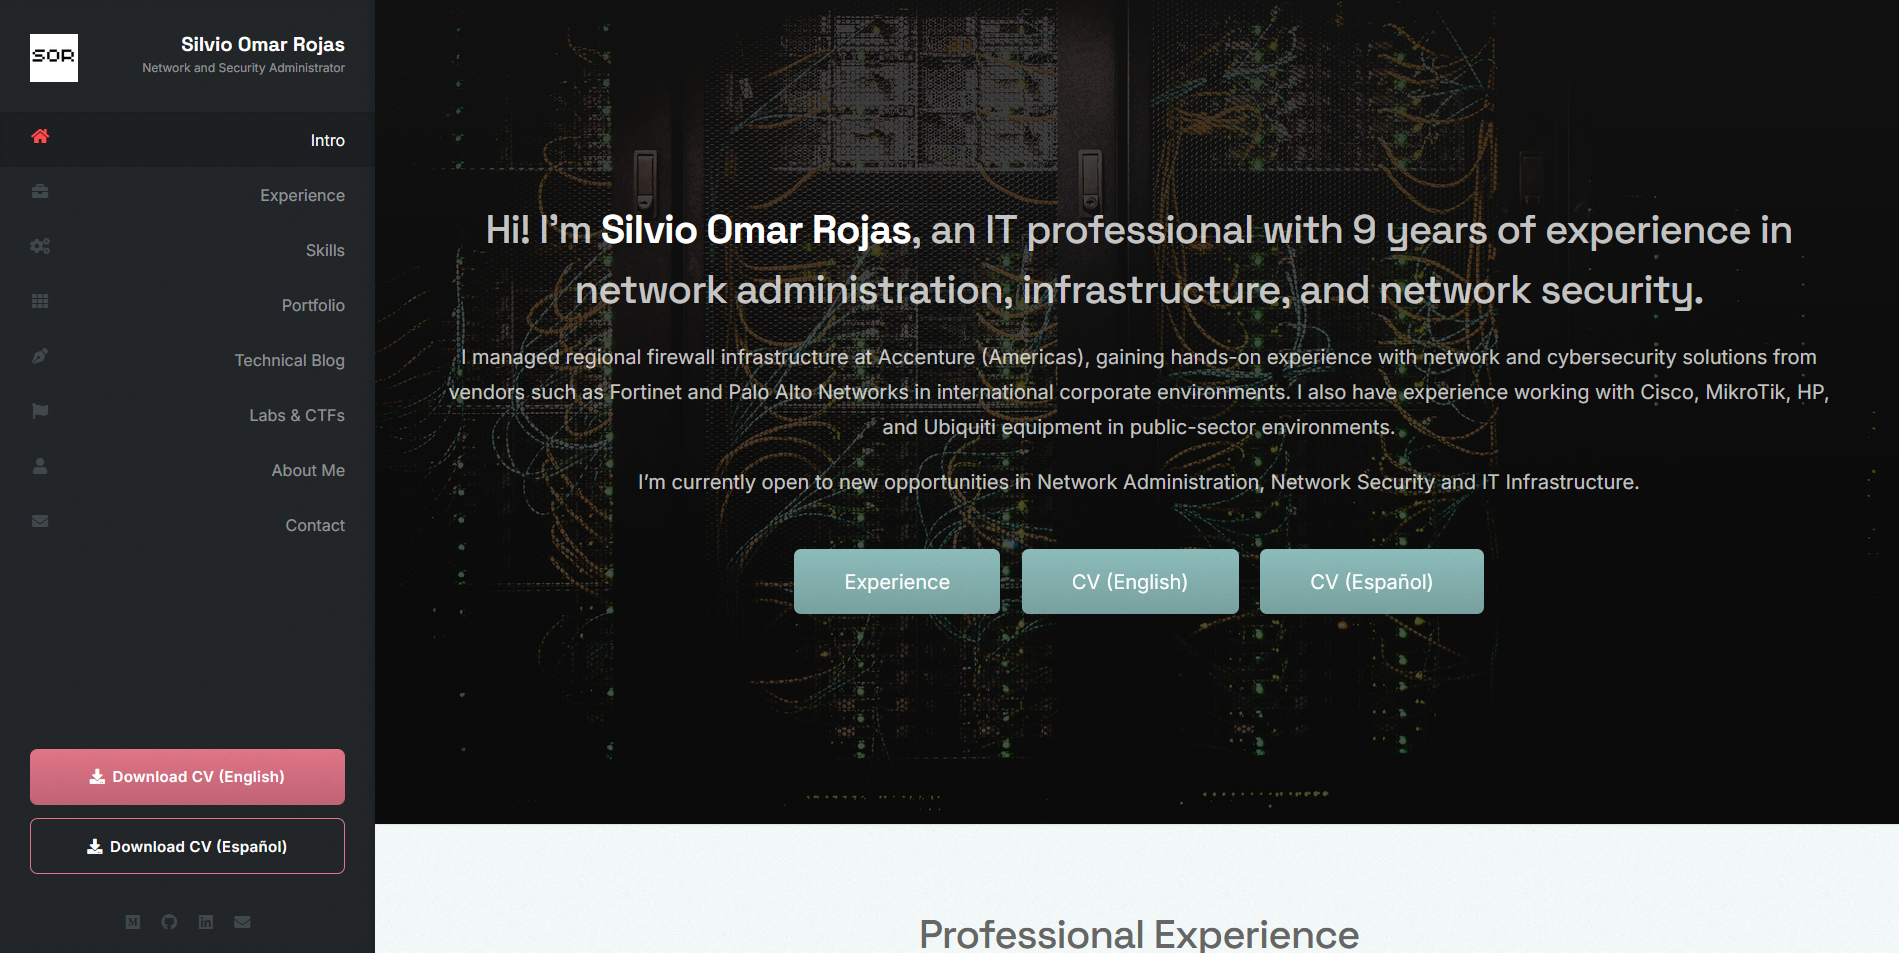
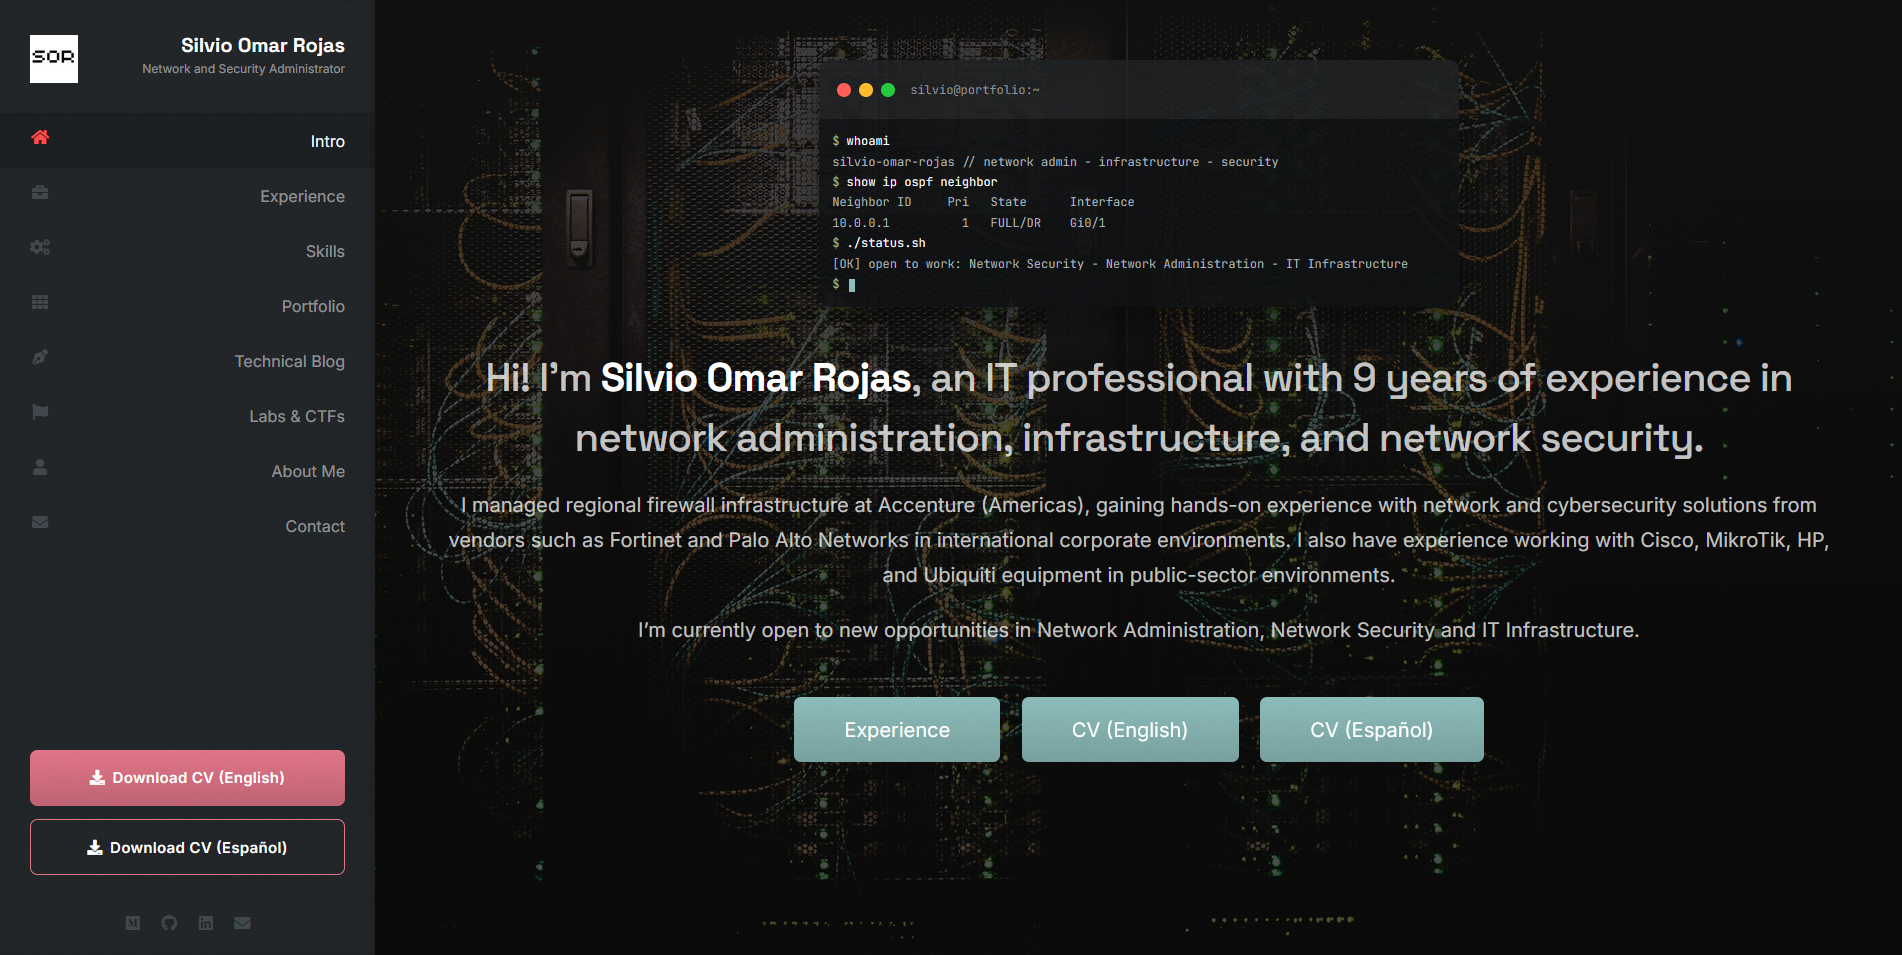
Updated project cards in the portfolio section

diff --git a/index.html b/index.html
@@ -77,7 +77,6 @@
 						<div class="container">
 
 							<header>
-								
 								<div class="terminal" aria-hidden="true">
 									<div class="term-bar">
 										<span></span><span></span><span></span>
@@ -94,7 +93,6 @@
 										<span class="t-line" data-type="cmd"></span>
 									</div>
 								</div>
-
 								<h2 class="alt">Hi! I'm <strong>Silvio Omar Rojas</strong>, an IT professional with 9 years of experience in network administration, infrastructure, and network security.</h2>
 								<p>I managed regional firewall infrastructure at Accenture (Americas), gaining hands-on experience with network and cybersecurity solutions from vendors such as Fortinet and Palo Alto Networks in international corporate environments. I also have experience working with Cisco, MikroTik, HP, and Ubiquiti equipment in public-sector environments.</p>
 								<p>I’m currently open to new opportunities in Network Administration, Network Security and IT Infrastructure.</p>
@@ -507,16 +505,46 @@
 
 									<!-- Full description: used as the content of the project modal -->
 									<div class="description-box" hidden>
-										<p><strong>Overview:</strong> I had been planning to develop a portfolio website to display my technical skills for quite some time, and I ultimately decided to built it using HTML, CSS and JavaScript, based on the Prologue template by HTML5 UP and hosted on GitHub Pages.</p>
-										<p><strong>Technologies:</strong> HTML, CSS, JS, Git Bash, Windows Terminal.</p>
-										<p><strong>Tools & Resources:</strong> GitHub, HTML5 UP, Unsplash, Font Awesome.</p>
-										<p><strong>Code:</strong> <a href="https://github.com/silviorojas/silviorojas.github.io" target="_blank" rel="noopener noreferrer">View GitHub Repository</a></p>
-										<p>
-										<strong>Article:</strong>
-										<a href="https://rojassilvioomar.medium.com/how-i-built-my-tech-portfolio-across-it-networking-and-cybersecurity-a674afe8812b" target="_blank" rel="noopener noreferrer">
-										<i class="fab fa-medium" aria-hidden="true"></i> Read the Case Study on Medium ↗
-										</a>
-										</p>
+										<p class="pm-lead">I had been planning to develop a portfolio website to display my technical skills for quite some time, and I ultimately decided to built it using HTML, CSS and JavaScript, based on the Prologue template by HTML5 UP and hosted on GitHub Pages.
+										A technical portfolio demonstrates practical skills, real-world problem-solving abilities, and hands-on experience, providing tangible evidence of my expertise in network administration, infrastructure, and cybersecurity beyond what a CV alone can communicate.</p>
+
+										<dl class="pm-meta">
+											<dt>Type</dt><dd>Website Deployment &amp; Configuration</dd>
+											<dt>Role</dt><dd>Web Developer &amp; Implementer</dd>
+											<dt>Duration</dt><dd>1 week</dd>
+											<dt>Tools</dt><dd>GitHub, HTML5 UP, Unsplash, Font Awesome, CloudFlare, Formspree.</dd>
+											<dt>Technologies</dt><dd>HTML, CSS, JS, Git Bash, Windows Terminal.</dd>
+										</dl>
+
+										<!-- Each <img> opens in a lightbox with arrows. alt = caption -->
+										<div class="pm-gallery">
+											<img src="images/projects/project01.webp"  alt="Screenshot of my website" loading="lazy" />
+											<img src="images/projects/project01-vscode.webp"  alt="VS Code" loading="lazy" />
+										</div>
+
+										<h4>Goals</h4>
+										<ul>
+											<li>Demonstrate practical knowledge and technical capabilities in network administration, infrastructure, network security, and cybersecurity.</li>
+											<li>Document projects &amp; hands-on experience.</li>
+											<li>Build a professional identity, increase visibility to potential employers and recruiters, and provide tangible evidence of technical experience beyond a traditional CV.</li>
+										</ul>
+
+										<h4>Challenges &amp; lessons learned</h4>
+										<ul>
+											<li>I didn't encounter many technical difficulties while implementing this project. 
+												The main challenge was deciding what to include and how to approach it, given the enormous number of possibilities for customization and improvement. 
+												There are countless features, design choices, and ideas that could be implemented, making it difficult to define a final version. 
+												I realized that a personal website is an ongoing project that can continuously evolve, and that it may never truly be 100% complete.</li>
+											<li>What I would improve next: Custom Domain: Register and configure a custom domain using a professional extension such as .dev or .tech.</li>
+											<li>Another thing I could add: A dedicated section to showcase professional certifications, completed courses, and relevant technical training.</li>
+										</ul>
+
+										<div class="pm-links">
+											<a href="https://github.com/silviorojas/silviorojas.github.io" target="_blank" rel="noopener noreferrer"><i class="fab fa-github" aria-hidden="true"></i> GitHub repository</a>
+											<a href="https://rojassilvioomar.medium.com/how-i-built-my-tech-portfolio-across-it-networking-and-cybersecurity-a674afe8812b" target="_blank" rel="noopener noreferrer"><i class="fab fa-medium" aria-hidden="true"></i> Case study on Medium</a>
+											<!-- More links: -->
+											<!-- <a href="files/something.pdf" target="_blank" rel="noopener noreferrer"><i class="fas fa-file-pdf" aria-hidden="true"></i> Network diagram (PDF)</a> -->										
+										</div>
 
 									</div>
 									</article>
@@ -537,18 +565,68 @@
 
 									<!-- Full description: used as the content of the project modal -->
 									<div class="description-box" hidden>
-										<p><strong>Overview:</strong> A secure, redundant enterprise network for RUNA S.R.L. (a fictional company), built and simulated in Cisco Packet Tracer. It uses a hierarchical design with a Layer 3 core, access switching, a perimeter firewall with a DMZ, centralized wireless, and IP telephony.</p>
-										<p><strong>Network Technologies Implemented:</strong> VLANs, 802.1Q, STP/PVST+, EtherChannel, HSRP, OSPF, NAT/PAT, ACLs, DHCP Relay, DHCP Snooping, AAA/TACACS+, SSH, FlexConnect, etc.</p>
-										<p><strong>Tools & Resources:</strong> Cisco Packet Tracer, Netbox.</p>
-										<p><strong>Configuration Interfaces:</strong> Cisco IOS CLI, Cisco ASA CLI, Cisco WLC GUI.</p>
-										<p><strong>Code: </strong> <a href="https://github.com/silviorojas/enterprise-network-cpk" target="_blank" rel="noopener noreferrer">View GitHub Repository</a></p>
-										<p><strong>Packet Tracer file: </strong> <a href="https://github.com/silviorojas/enterprise-network-cpk/releases/latest/download/runa-silvio-omar-rojas.pkt" target="_blank" rel="noopener noreferrer">Download</a></p>
-										<p>
-										<strong>Article:</strong>
-										<a href="https://rojassilvioomar.medium.com/enterprise-network-architecture-e29a17f700c3" target="_blank" rel="noopener noreferrer">
-										<i class="fab fa-medium" aria-hidden="true"></i> Read the Case Study on Medium ↗
-										</a>
-										</p>
+
+										<p class="pm-lead">I decided to simulate with Cisco Packet Tracer an enterprise network infrastructure for RUNA S.R.L. (a fictional company), to replicate the architecture and complexity of a real-world corporate environment. 
+											The project involves designing a multi-floor network with multiple VLANs and subnets, dedicated network segments for different departments and user groups, 
+											and firewall security zones to separate internal users, guest Wi-Fi, DMZ services, and external Internet connectivity.</p>
+
+										<dl class="pm-meta">
+											<dt>Type</dt><dd>Network design &amp; simulation</dd>
+											<dt>Role</dt><dd>Designer and implementer</dd>
+											<dt>Duration</dt><dd>1-2 weeks</dd>
+											<dt>Tools</dt><dd>Cisco Packet Tracer, NetBox</dd>
+											<dt>Network technologies</dt><dd>VLANs, 802.1Q, STP/PVST+, EtherChannel, HSRP, OSPF, NAT/PAT, ACLs, DHCP Relay, DHCP Snooping, AAA/TACACS+, SSH, FlexConnect</dd>
+											<dt>Configuration interfaces</dt><dd>Cisco IOS CLI, Cisco ASA CLI, Cisco WLC GUI</dd>
+										</dl>
+
+										<!-- Each <img> opens in a lightbox with arrows. alt = caption -->
+										<div class="pm-gallery">
+											<img src="images/projects/project02-L2-Diagram.png"  alt="Layer 2 topology" loading="lazy" />
+											<img src="images/projects/project02-L3-Diagram.png"  alt="Layer 3 core and HSRP configuration" loading="lazy" />
+											<img src="images/projects/project02-PacketTracerwithoutCorporateAccessInfrastructure.png"  alt="Cisco Packet Tracer" loading="lazy" />
+											<img src="images/projects/project02-PacketTracer-CorporateAccessInfrastructure.png"  alt="Cisco Packet Tracer (Corporate Access)" loading="lazy" />
+											<img src="images/projects/project02-PacketTracer-Physical.png"     alt="Cisco Packet Tracer (MDF-Physical)" loading="lazy" />
+											<img src="images/projects/project02-Web-01-runa-com.png"    alt="Web Server 01 (runa.com)" loading="lazy" />
+										</div>
+
+										<h4>Goals</h4>
+										<ul>
+											<li>No single point of failure at the core and distribution layers.</li>
+											<li>Segmentation by department with controlled inter-VLAN access.</li>
+											<li>Secure remote administration and centralized authentication.</li>
+										</ul>
+
+										<h4>Architecture</h4>
+										<ul>
+											<li><strong>Collapsed Core Architecture:</strong> A two-tier hierarchical network design combining the Core and Distribution layers into a single layer of redundant Layer 3 switches, using OSPF for dynamic routing and HSRP for gateway redundancy.</li>
+											<li><strong>Access:</strong> VLANs, 802.1Q trunks, EtherChannel and PVST+.</li>
+											<li><strong>Perimeter:</strong> Cisco ASA with NAT/PAT and a DMZ for public servers.</li>
+											<li><strong>Wireless:</strong> Centralized WLC with FlexConnect APs.</li>
+											<li><strong>Voice:</strong> IP telephony on a dedicated voice VLAN.</li>
+										</ul>
+
+										<h4>Security</h4>
+										<ul>
+											<li>DHCP Snooping and DHCP Relay.</li>
+											<li>AAA with TACACS+ and SSH-only management.</li>
+											<li>Unused ports shutdown (VLAN Blackhole).</li>
+										</ul>
+
+										<h4>Challenges &amp; lessons learned</h4>
+										<ul>
+											<li>Several issues came up throughout the configuration and implementation process. Most of them were troubleshooting-related configuration errors that I resolved on the go. As a result, not every issue was formally documented, particularly those that did not represent significant technical challenges.</li>
+											<li>Asymmetry with two core switches: If the ASA learns the same networks via both INSIDE1 and INSIDE2 with an equal cost, it will perform ECMP. A flow might exit through one core switch and return via the other, since the ASA is stateful, it will drop the returning traffic. My solution: I configured OSPF with a lower cost on one of the interfaces, making it the primary path and the other a backup.</li>
+											<li>What I would improve next: Implement more granular Access Control Lists (ACLs) on CORE-1 and CORE-2 to enforce INTER-VLAN traffic restrictions.</li>
+											<li>I should distribute Layer 2 and Layer 3 responsibilities between CORE-1 and CORE-2. Currently, CORE-1 acts as the STP root bridge and active HSRP gateway for all VLANs, leaving CORE-2 underutilized. I could assign primary gateway and STP root roles for different VLAN groups across both core switches.</li>
+										</ul>
+
+										<div class="pm-links">
+											<a href="https://github.com/silviorojas/enterprise-network-cpk" target="_blank" rel="noopener noreferrer"><i class="fab fa-github" aria-hidden="true"></i> GitHub repository</a>
+											<a href="https://github.com/silviorojas/enterprise-network-cpk/releases/latest/download/runa-silvio-omar-rojas.pkt" target="_blank" rel="noopener noreferrer"><i class="fas fa-download" aria-hidden="true"></i> Packet Tracer file</a>
+											<a href="https://rojassilvioomar.medium.com/enterprise-network-architecture-e29a17f700c3" target="_blank" rel="noopener noreferrer"><i class="fab fa-medium" aria-hidden="true"></i> Case study on Medium</a>
+											<!-- More links: -->
+											<!-- <a href="files/runa-network-diagram.pdf" target="_blank" rel="noopener noreferrer"><i class="fas fa-file-pdf" aria-hidden="true"></i> Network diagram (PDF)</a> -->										
+										</div>
 
 									</div>
 									</article>
@@ -577,54 +655,6 @@
 									</div>
 									</article>
 								</div>
-
-								<!-- Project 04 
-								<div class="col-6 col-12-mobile">
-									<article class="item">
-										<a href="#" class="image fit"><img src="images/project04.jpg" alt="" /></a>
-
-										<div class="description-box">
-											<p>Write a description here...</p>
-										</div>
-
-										<header>
-											<h3>Project 04</h3>
-										</header>
-									</article>
-								</div>
-								-->
-
-								<!-- Project 05
-								<div class="col-6 col-12-mobile">
-									<article class="item">
-										<a href="#" class="image fit"><img src="images/project05.jpg" alt="" /></a>
-
-										<div class="description-box">
-											<p>Write a description here...</p>
-										</div>
-
-										<header>
-											<h3>Project 05</h3>
-										</header>
-									</article>
-								</div>
-								-->
-
-								<!-- Project 06
-								<div class="col-6 col-12-mobile">
-									<article class="item">
-										<a href="#" class="image fit"><img src="images/project06.jpg" alt="" /></a>
-
-										<div class="description-box">
-											<p>Write a description here...</p>
-										</div>
-
-										<header>
-											<h3>Project 06</h3>
-										</header>
-									</article>
-								</div>
-								-->
 
 							</div>
 						</div>

diff --git a/assets/css/custom.css b/assets/css/custom.css
@@ -488,3 +488,97 @@
         height: 160px;
     }
 }
+
+
+/* ===== Project modal: rich content (sections, gallery, links) ===== */
+.pm-body .pm-lead {
+  font-size: 1.05em;
+  line-height: 1.55;
+  margin-bottom: 1.2em;
+}
+
+.pm-body h4 {
+  color: #fff;
+  font-size: 1em;
+  letter-spacing: 0.08em;
+  text-transform: uppercase;
+  margin: 1.6em 0 0.6em 0;
+  padding-bottom: 0.35em;
+  border-bottom: 1px solid rgba(255, 255, 255, 0.15);
+}
+
+.pm-body ul {
+  list-style: disc;
+  margin: 0 0 1em 1.2em;
+  padding: 0;
+}
+
+.pm-body li {
+  line-height: 1.5;
+  margin-bottom: 0.35em;
+}
+
+/* Quick facts (role, type, tools...) */
+.pm-meta {
+  display: grid;
+  grid-template-columns: max-content 1fr;
+  gap: 0.35em 1em;
+  margin: 0 0 1.2em 0;
+  font-size: 0.9em;
+  opacity: 0.9;
+}
+.pm-meta dt { font-weight: 600; color: #4ed7f1; }
+.pm-meta dd { margin: 0; }
+
+/* Screenshot gallery (click -> lightbox) */
+.pm-gallery {
+  display: grid;
+  grid-template-columns: repeat(3, 1fr);
+  gap: 0.6em;
+  margin: 0 0 1.2em 0;
+}
+.pm-gallery img {
+  display: block;
+  width: 100%;
+  aspect-ratio: 16 / 10;
+  object-fit: cover;
+  border-radius: 4px;
+  border: 1px solid rgba(255, 255, 255, 0.12);
+  cursor: zoom-in;
+  transition: transform 0.2s ease, filter 0.2s ease;
+}
+.pm-gallery img:hover { transform: scale(1.03); filter: brightness(1.1); }
+
+@media screen and (max-width: 736px) {
+  .pm-gallery { grid-template-columns: repeat(2, 1fr); }
+}
+
+/* Tags inside the dark modal */
+.pm-body .post-tags li {
+  background: rgba(78, 215, 241, 0.12);
+  color: #4ed7f1;
+}
+
+/* Link buttons */
+.pm-links {
+  display: flex;
+  flex-wrap: wrap;
+  gap: 0.6em;
+  margin-top: 1.2em;
+}
+.pm-links a {
+  display: inline-flex;
+  align-items: center;
+  gap: 0.5em;
+  padding: 0.55em 1em;
+  border: 1px solid #4ed7f1;
+  border-radius: 4px;
+  color: #4ed7f1;
+  font-size: 0.85em;
+  text-decoration: none;
+  transition: background 0.2s ease, color 0.2s ease;
+}
+.pm-links a:hover {
+  background: #4ed7f1;
+  color: #222629;
+}

diff --git a/assets/js/lightbox.js b/assets/js/lightbox.js
@@ -69,6 +69,18 @@
         });
     }
 
+    // Project modal gallery (several screenshots).
+    // The modal content is injected with innerHTML, so we use event delegation.
+    const pmContent = document.getElementById('pm-content');
+    if (pmContent) {
+        pmContent.addEventListener('click', (e) => {
+            const thumb = e.target.closest('.pm-gallery img');
+            if (!thumb) return;
+            const list = Array.from(pmContent.querySelectorAll('.pm-gallery img'));
+            open(list.indexOf(thumb), list);
+        });
+    }
+
     lightbox.querySelector('.lb-close').addEventListener('click', close);
     lightbox.querySelector('.lb-prev').addEventListener('click', prev);
     lightbox.querySelector('.lb-next').addEventListener('click', next);
